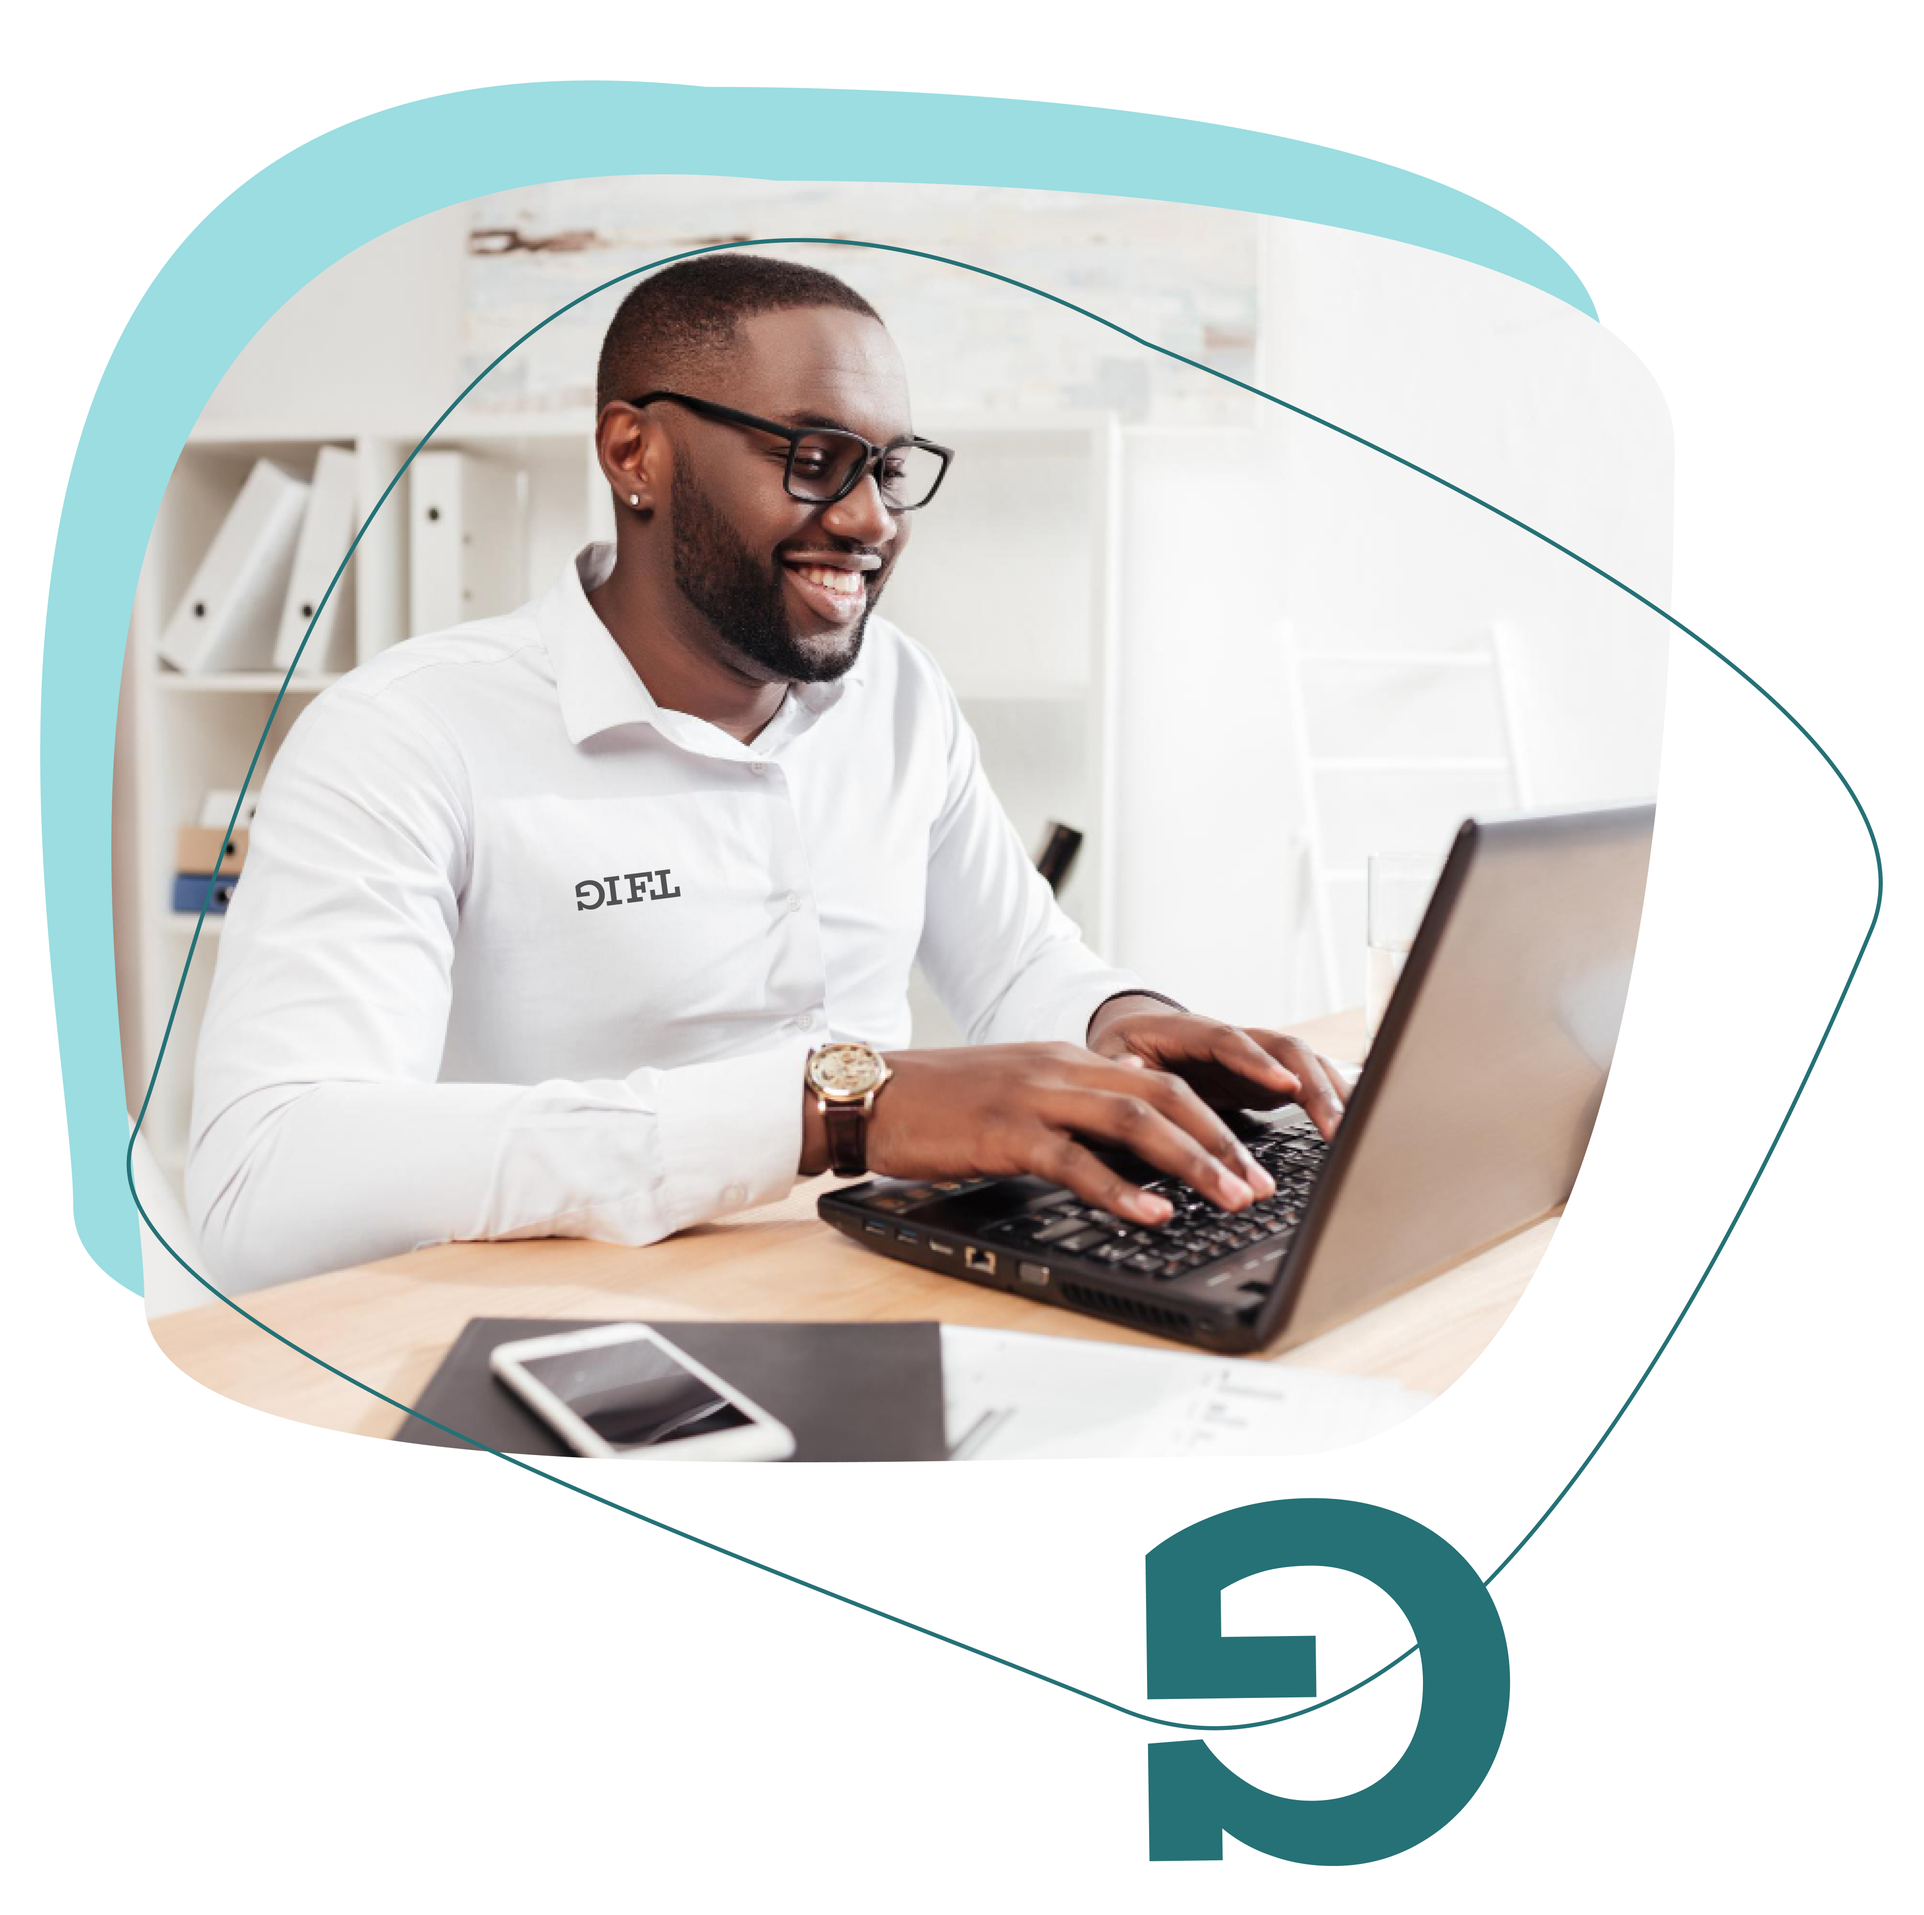
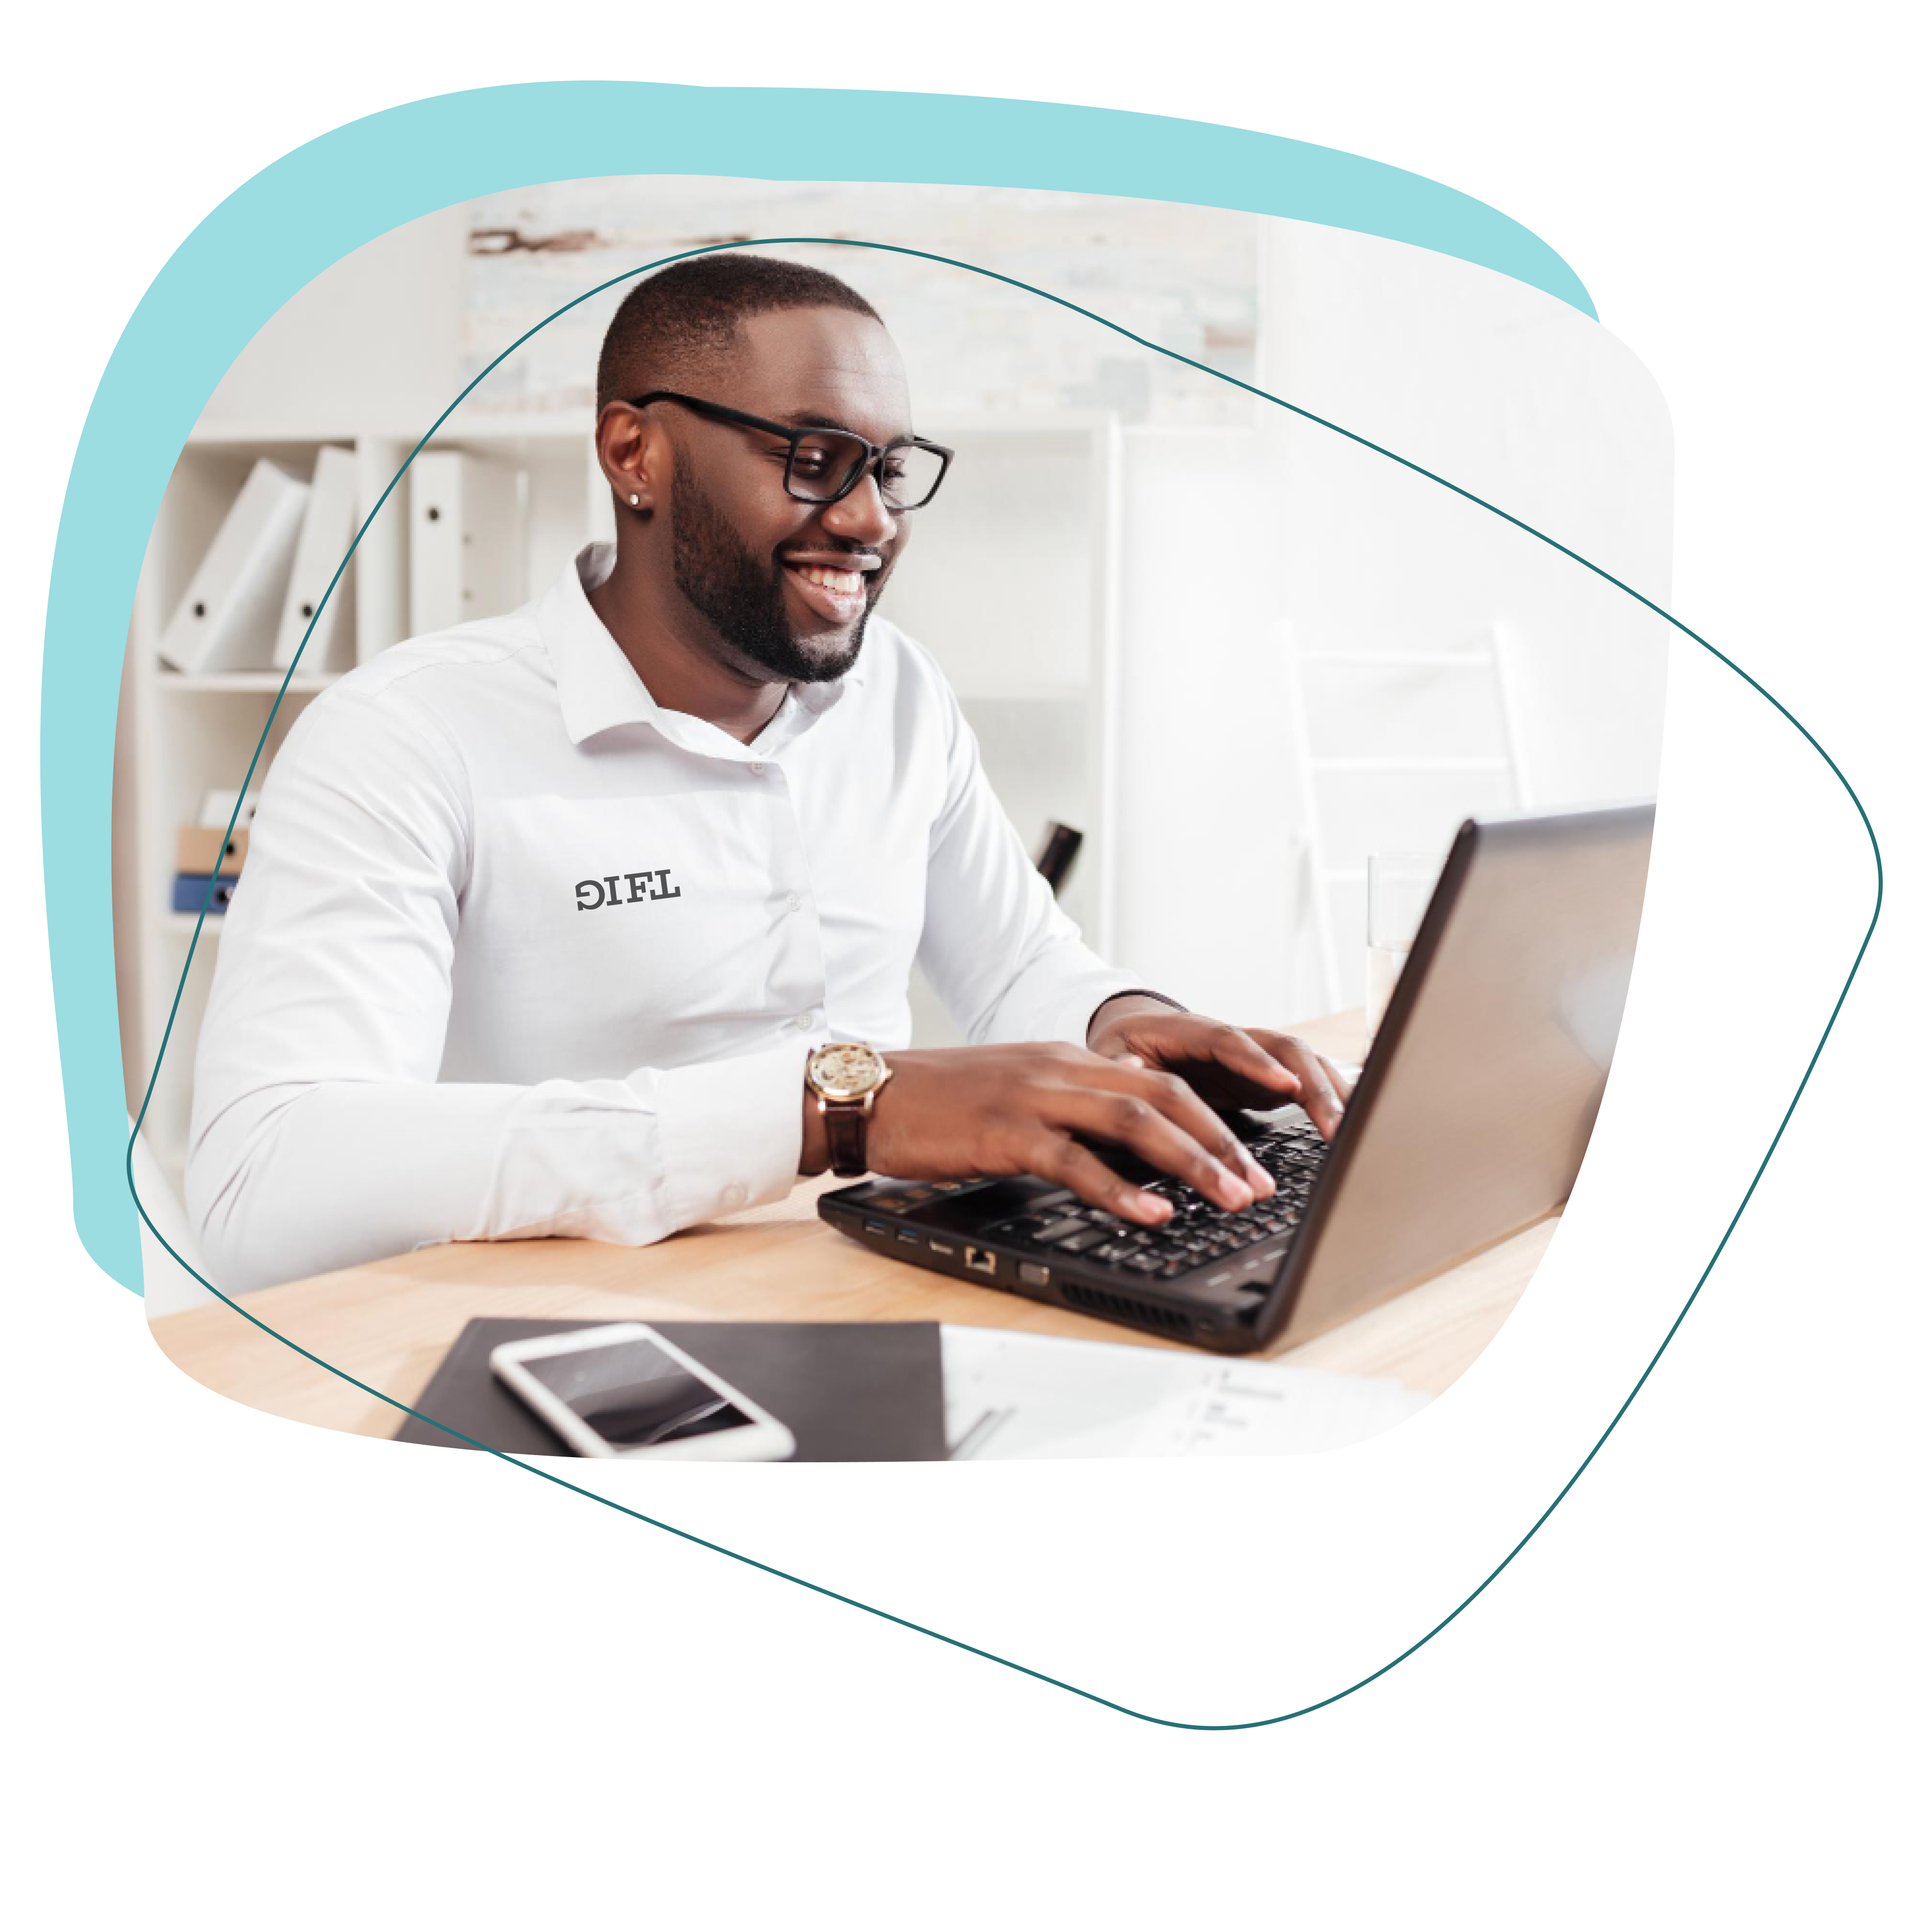
first commit

Changed region(s): [[0.5906, 0.7808, 0.8081, 0.9995]]

diff --git a/index.html b/index.html
@@ -50,7 +50,7 @@
         <div class="content">
             <div class="logo">
                 <a href="#" class="w-100" aria-label="GiftImg">
-                    <img src="assets/img/header/GiftImg.png" alt="">
+                    <img src="assets/img/header/Logo.png" alt="">
                 </a>
             </div>
             <div class="pages_links">
@@ -120,7 +120,7 @@
     <nav class="navbar navbar-expand-lg navbar-light style-7">
         <div class="container">
             <a class="navbar-brand" href="#" aria-label="GiftImg">
-                <img src="assets/img/header/GiftImg.png" alt="">
+                <img src="assets/img/header/Logo.png" alt="">
             </a>
             <button class="navbar-toggler" type="button" data-bs-toggle="collapse"
                 data-bs-target="#navbarSupportedContent" aria-controls="navbarSupportedContent" aria-expanded="false"
@@ -195,11 +195,11 @@
                             <div class="section-head style-4">
                                 <div class="top-title">
                                     <!--    <img src="assets/img/line_l.png" alt=""> -->
-                                    <h5> Get Solid Solution </h5>
+                            
                                 </div>
                             </div>
                             <h1 class="text-grade-h1-style">
-                                Make <br> <span class="num"> GIFT </span> <span class="text-grad"> Hard Things </span>
+                                GIFT <br> <span class="num"> Make  </span> <span class="text-grad"> Hard Things </span>
                                 <br> Soft
                             </h1>
                             <div class="d-flex flex-wrap">
@@ -217,7 +217,6 @@
                     <div class="col-lg-6">
                         <div class="img mt-4 mt-lg-0">
                             <img src="assets/img/image-web.png" alt="">
-                            <img src="assets/img/header/giftG.png" width="150" alt="" class="rock7 slide_up_down">
                         </div>
                     </div>
                     <div class="col-12">

diff --git a/assets/css/style.css b/assets/css/style.css
@@ -2133,14 +2133,7 @@ small.text {
   background-image: linear-gradient(to right, #1a9b9b 0%, #11d6bc 30%, #95ebe3 30%, #33c5b9 73%, #adadad 100%);
 }
 
-.section-head.style-4 h5 {
-  font-size: 16px;
-  font-weight: bold;
-  color: #257176;
-  display: inline-block;
-  text-transform: capitalize;
-  margin: 0 10px;
-}
+
 
 /* --------------- section style-5 --------------- */
 .section-head.style-5 h2 {
